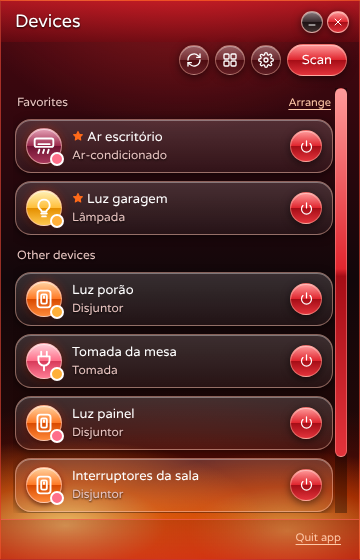
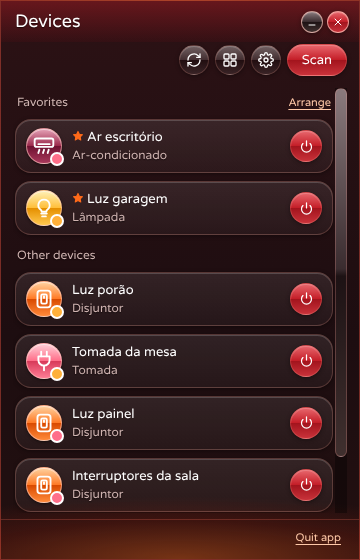
Frutiger Inferno mais leve
Fundo vinho escuro mais plano, lava só como um brilho discreto no pé da
janela, barra de título, cartões, bordas e sombras mais suaves, vermelho
dos botões menos estourado e rolagem em grafite.

Claude-Session: https://claude.ai/code/session_01NXiFBhHosn1RUp1enfXXuy

diff --git a/apps/menubar/src/frontend/themes/frutiger-inferno/theme.css b/apps/menubar/src/frontend/themes/frutiger-inferno/theme.css
@@ -1,7 +1,7 @@
 /*
  * Frutiger Inferno — o irmão do mal do Frutiger Aero: o mesmo vidro e os mesmos
- * botões em pílula com brilho, só que vermelho-sangue, preto e brasa, com lava
- * subindo pelo fundo da janela (aqueles temas de Windows 7 baixados de fórum).
+ * botões em pílula com brilho, só que em vinho escuro, vermelho e brasa, com um
+ * brilho de lava discreto no pé da janela (aqueles temas de Windows 7 baixados de fórum).
  */
 /* usa a mesma fonte do Frutiger Aero (themes/frutiger-aero/fonts.css) */
 
@@ -15,23 +15,20 @@
   --white: #ffffff;
   /* brilho: metade de cima clara, "quebra" no meio, base mais escura */
   --gloss-glass: linear-gradient(180deg, rgba(255, 255, 255, 0.34) 0%, rgba(255, 255, 255, 0.12) 49%, rgba(0, 0, 0, 0.18) 51%, rgba(255, 255, 255, 0.08) 100%);
-  --gloss-red: linear-gradient(180deg, #ff9a9a 0%, #e0262f 49%, #a50d16 51%, #e3333b 100%);
+  --gloss-red: linear-gradient(180deg, #e8676d 0%, #c41e28 49%, #a3141d 51%, #c8323a 100%);
   --gloss-ember: linear-gradient(180deg, #ffd3a1 0%, #ff7a26 49%, #d94a00 51%, #ff8a3a 100%);
   --gloss-flame: linear-gradient(180deg, #fff1b8 0%, #ffbf3a 49%, #e58f00 51%, #ffc94f 100%);
   --gloss-wine: linear-gradient(180deg, #e6a3b8 0%, #9c2a4c 49%, #6e1130 51%, #a8385b 100%);
   --gloss-coal: linear-gradient(180deg, #8a7a7d 0%, #3a2c2f 49%, #1d1214 51%, #40302f 100%);
   --gloss-rose: linear-gradient(180deg, #ffd0d8 0%, #ff6f8a 49%, #d83a5a 51%, #ff7d95 100%);
-  --smoke: linear-gradient(180deg, rgba(255, 255, 255, 0.16) 0%, rgba(255, 255, 255, 0.05) 100%);
-  --smoke-hover: linear-gradient(180deg, rgba(255, 255, 255, 0.26) 0%, rgba(255, 255, 255, 0.1) 100%);
-  --rim: 1px solid rgba(255, 190, 170, 0.45);
-  --lift: 0 2px 8px rgba(0, 0, 0, 0.55), inset 0 1px 0 rgba(255, 255, 255, 0.35);
+  --smoke: linear-gradient(180deg, rgba(255, 255, 255, 0.09) 0%, rgba(255, 255, 255, 0.04) 100%);
+  --smoke-hover: linear-gradient(180deg, rgba(255, 255, 255, 0.15) 0%, rgba(255, 255, 255, 0.07) 100%);
+  --rim: 1px solid rgba(255, 170, 150, 0.22);
+  --lift: 0 1px 4px rgba(0, 0, 0, 0.4), inset 0 1px 0 rgba(255, 255, 255, 0.18);
   /* lava: brasas na base da janela por cima do vidro vermelho */
   --lava:
-    radial-gradient(80% 22% at 18% 94%, rgba(255, 220, 120, 0.85) 0%, rgba(255, 120, 20, 0.55) 35%, transparent 70%),
-    radial-gradient(70% 20% at 80% 95%, rgba(255, 200, 90, 0.75) 0%, rgba(255, 90, 0, 0.45) 40%, transparent 72%),
-    radial-gradient(150% 45% at 50% 104%, rgba(255, 70, 0, 0.7) 0%, rgba(170, 20, 0, 0.4) 45%, transparent 75%),
-    radial-gradient(90% 45% at 50% -8%, rgba(255, 50, 50, 0.45) 0%, transparent 70%),
-    linear-gradient(180deg, #4a0710 0%, var(--ash) 50%, #2e0805 100%);
+    radial-gradient(120% 14% at 50% 100%, rgba(255, 110, 30, 0.38) 0%, rgba(200, 40, 10, 0.16) 50%, transparent 80%),
+    linear-gradient(180deg, #2c1215 0%, #1d0d10 60%, #221010 100%);
 
   --font-ui: "Varela Round", "Segoe UI", -apple-system, system-ui, sans-serif;
   --font-display: var(--font-ui);
@@ -43,14 +40,14 @@
   --window-margin: 0px;
   --window-bg: var(--lava);
   --window-fg: var(--white);
-  --window-border: 1px solid rgba(255, 80, 60, 0.55);
+  --window-border: 1px solid rgba(255, 90, 70, 0.4);
   --window-radius: 0px;
   --window-shadow: none;
   --window-areas: "title" "tools" "body" "status";
   --window-columns: minmax(0, 1fr);
   --window-rows: auto auto minmax(0, 1fr) auto;
 
-  --titlebar-bg: linear-gradient(180deg, rgba(220, 30, 40, 0.65) 0%, rgba(120, 8, 16, 0.45) 100%);
+  --titlebar-bg: linear-gradient(180deg, rgba(200, 30, 40, 0.38) 0%, rgba(120, 10, 18, 0.12) 100%);
   --titlebar-fg: var(--white);
   --titlebar-border: 0;
   --titlebar-padding: 8px 10px 8px 14px;
@@ -69,7 +66,7 @@
 
   --body-padding: 6px 12px;
   --gap: 10px;
-  --muted: #e8c4c0;
+  --muted: #cfb3b0;
   --accent: var(--ember);
   --accent-fg: var(--white);
   --link: #ffc9a8;
@@ -127,9 +124,9 @@
   --statusbar-padding: 6px 14px 10px;
 
   --scrollbar-size: 12px;
-  --scrollbar-thumb: var(--gloss-red);
+  --scrollbar-thumb: var(--gloss-coal);
   --scrollbar-track: rgba(0, 0, 0, 0.35);
-  --scrollbar-border: 1px solid rgba(255, 160, 150, 0.45);
+  --scrollbar-border: 1px solid rgba(255, 160, 150, 0.25);
 
   --qr-frame: var(--white);
   --link-local: var(--flame);
@@ -187,7 +184,7 @@
 /* ---- detalhes que vão além de tokens ---- */
 
 /* letra branca sobre vidro escuro: sombra preta forte, como nos temas da época */
-[data-theme="frutiger-inferno"] body { text-shadow: 0 1px 2px rgba(0, 0, 0, 0.8); }
+[data-theme="frutiger-inferno"] body { text-shadow: 0 1px 1px rgba(0, 0, 0, 0.5); }
 [data-theme="frutiger-inferno"] .qr { text-shadow: none; color: var(--ash); }
 [data-theme="frutiger-inferno"] select option { text-shadow: none; color: var(--white); background: var(--blood); }
 
@@ -197,9 +194,9 @@
 
 /* ícones dos aparelhos com brilho de bolha e um halo de brasa */
 [data-theme="frutiger-inferno"] .device-icon,
-[data-theme="frutiger-inferno"] .art-tile { box-shadow: 0 0 10px rgba(255, 60, 20, 0.35), 0 2px 5px rgba(0, 0, 0, 0.6), inset 0 1px 0 rgba(255, 255, 255, 0.5); }
+[data-theme="frutiger-inferno"] .art-tile { box-shadow: 0 1px 3px rgba(0, 0, 0, 0.5), inset 0 1px 0 rgba(255, 255, 255, 0.45); }
 
-/* o rodapé vira uma barra de tarefas vermelha */
-[data-theme="frutiger-inferno"] .statusbar { background: linear-gradient(180deg, rgba(120, 8, 16, 0.25) 0%, rgba(200, 24, 32, 0.45) 100%); border-top: 1px solid rgba(255, 120, 100, 0.5); }
+/* rodapé discreto: só uma linha de brasa em cima */
+[data-theme="frutiger-inferno"] .statusbar { border-top: 1px solid rgba(255, 110, 90, 0.25); }
 
 [data-theme="frutiger-inferno"] .list::-webkit-scrollbar-thumb { border-radius: 999px; }

diff --git a/apps/menubar/src/frontend/themes/index.js b/apps/menubar/src/frontend/themes/index.js
@@ -27,7 +27,7 @@ Lilac.builtinThemes = [
     name: 'Frutiger Inferno',
     description: { 'pt-BR': 'O irmão do mal do Aero: vidro vermelho, brasa e lava', en: "Aero's evil twin: red glass, embers and lava" },
     href: ['themes/frutiger-aero/fonts.css', 'themes/frutiger-inferno/theme.css'],
-    swatches: ['#12070a', '#b3121f', '#ff6a1a', '#ffb03a', '#ffffff'],
+    swatches: ['#2c1215', '#c41e28', '#ff6a1a', '#ffb03a', '#ffffff'],
   },
   {
     id: 'cassi-ui',
